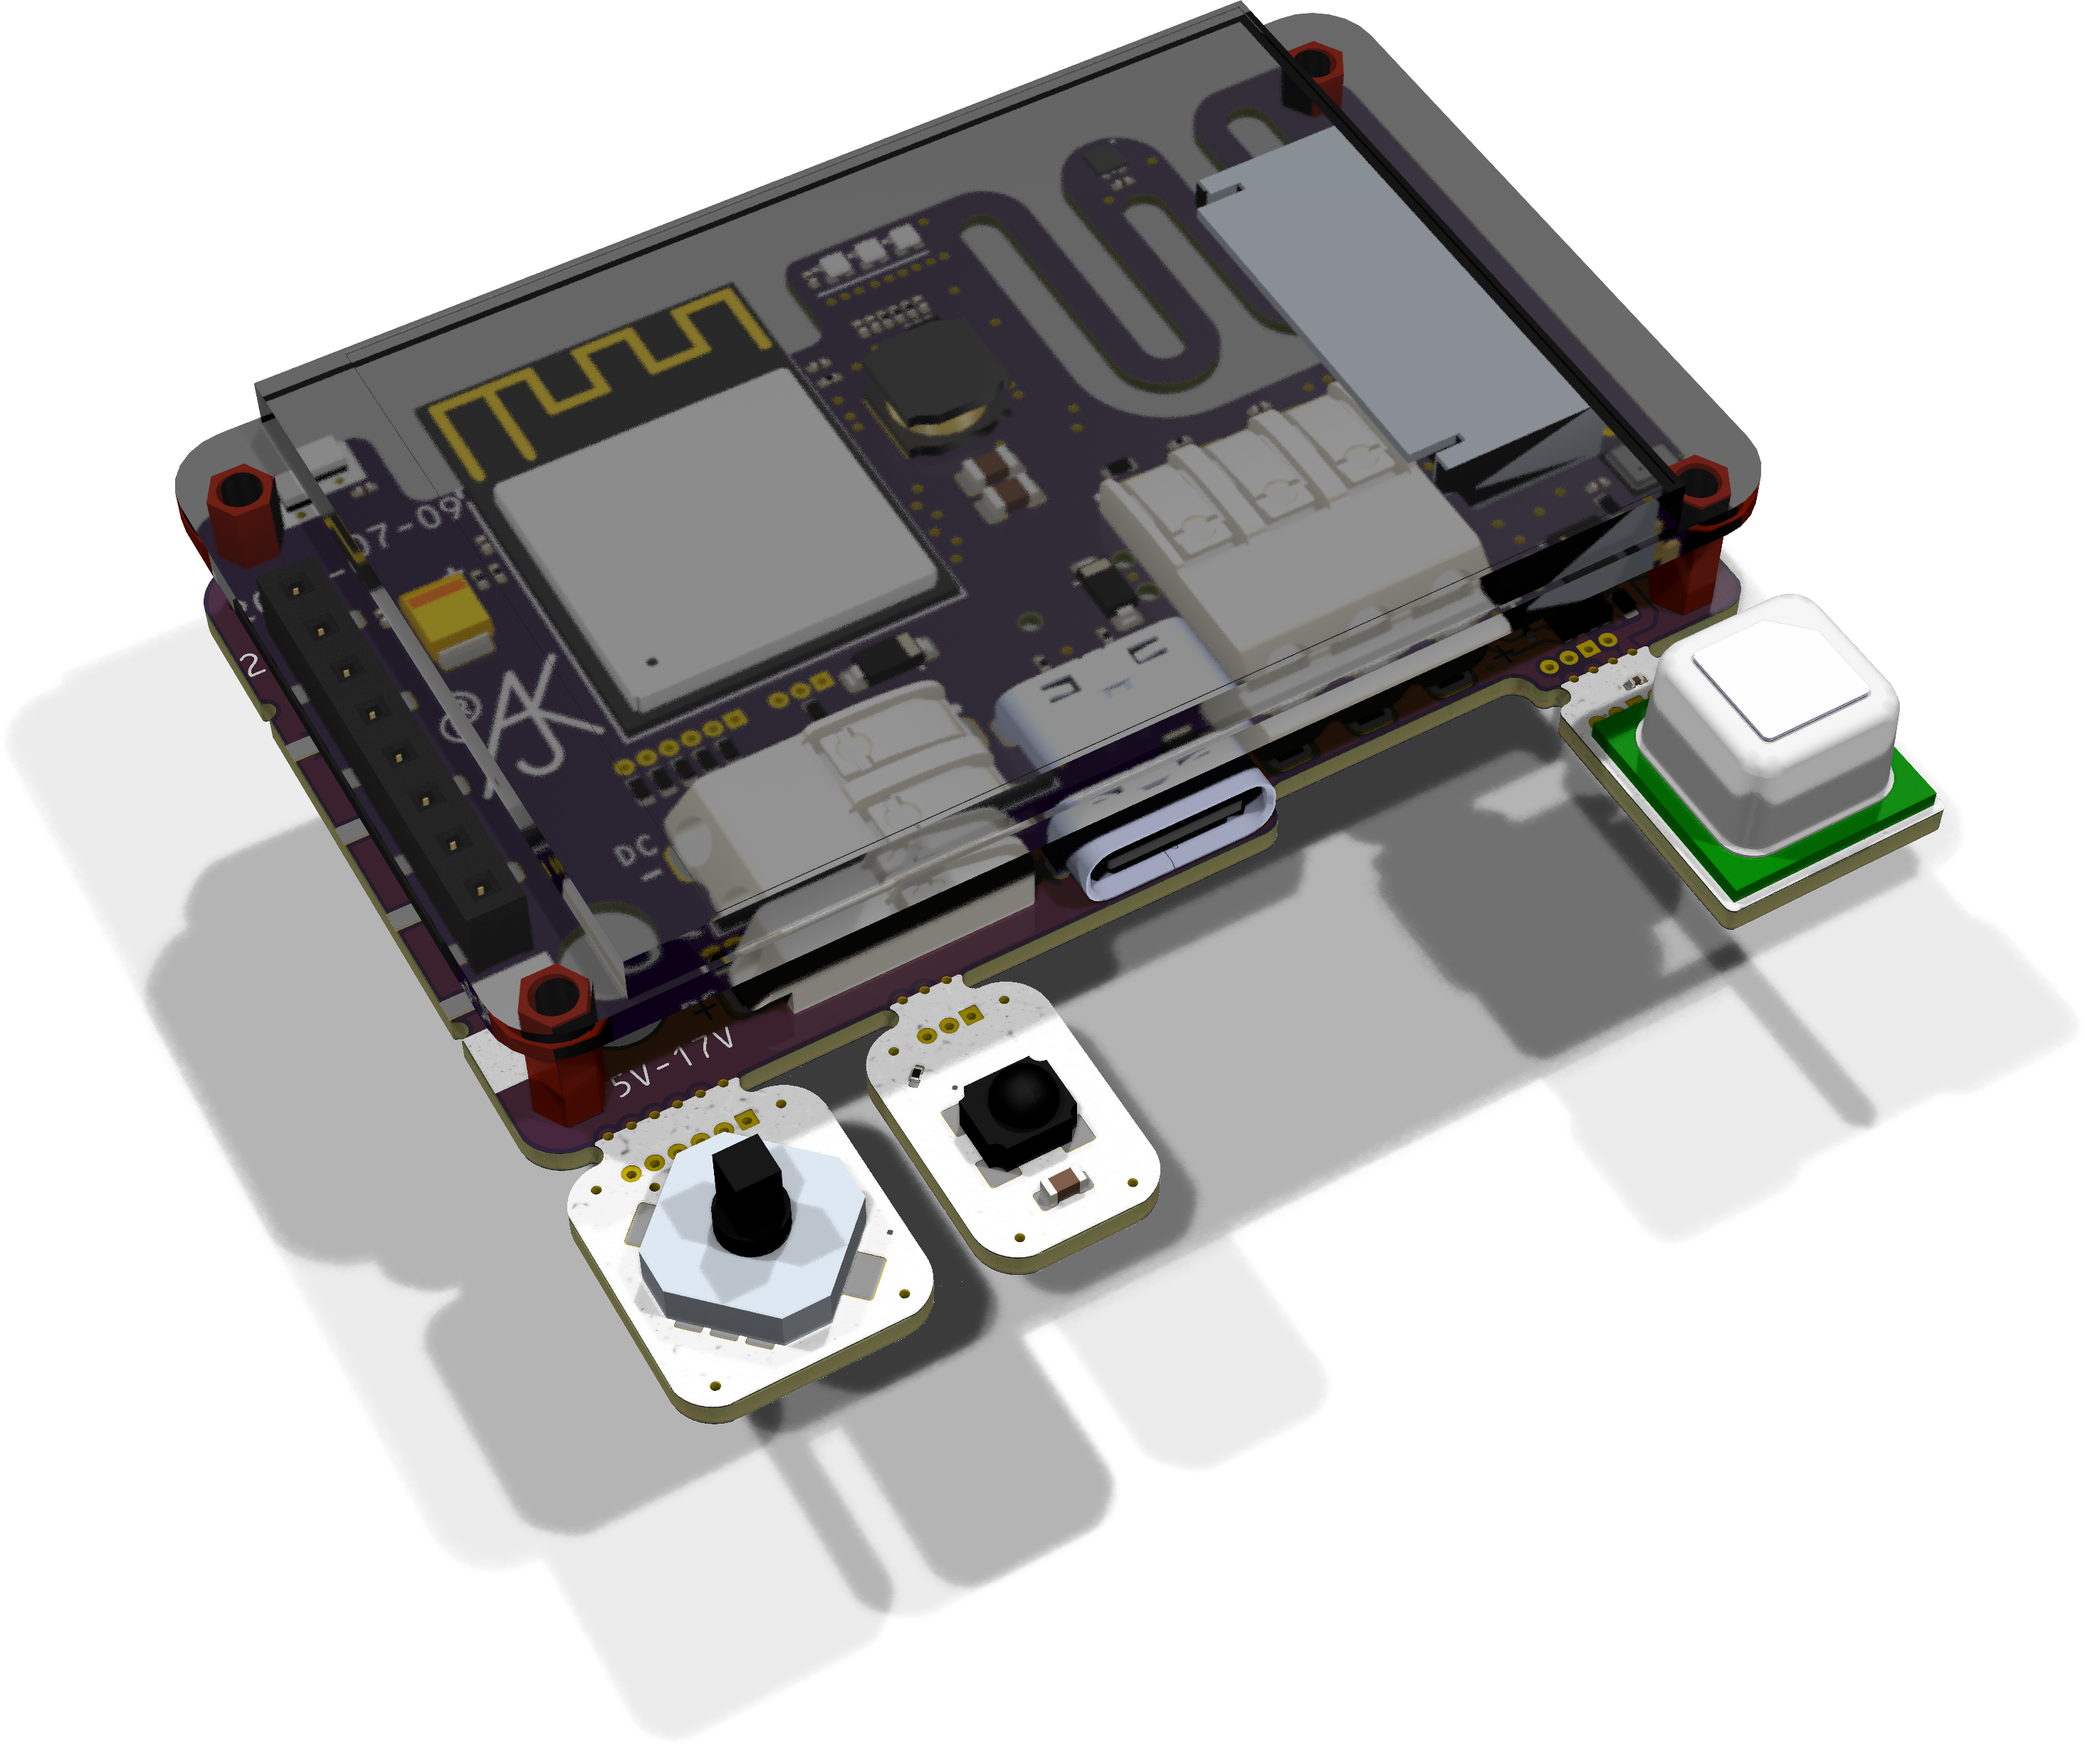
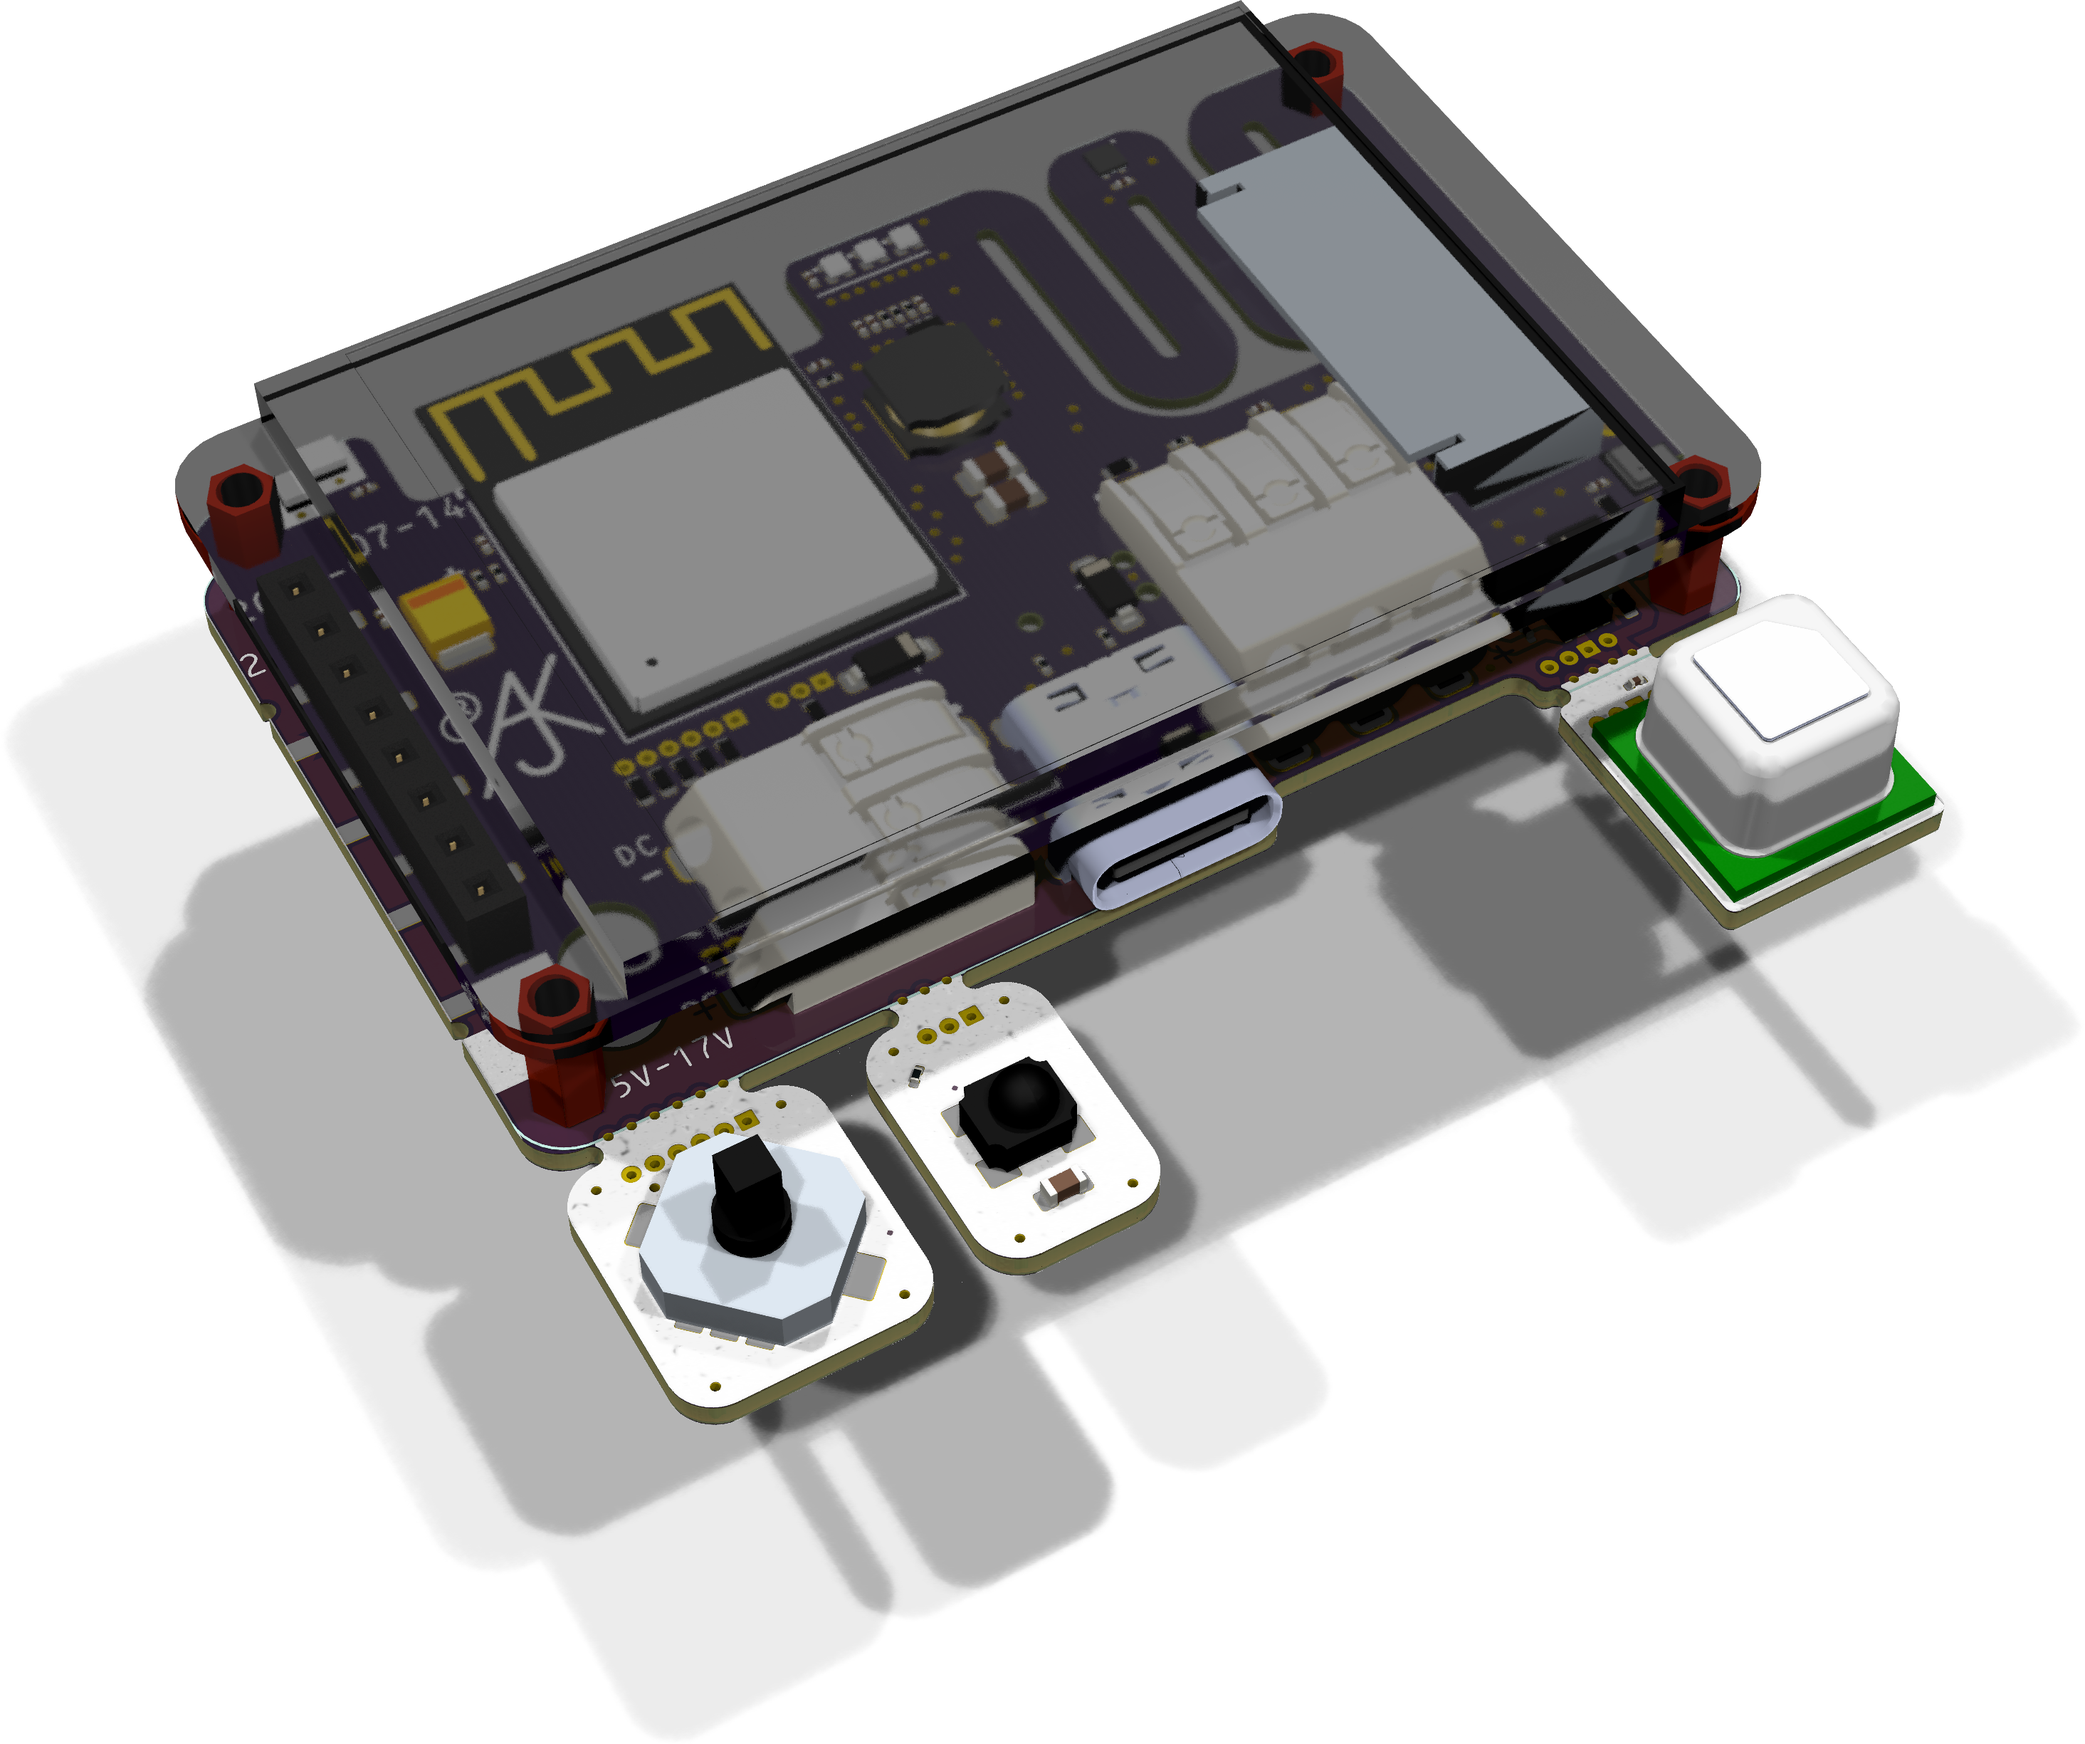
New tracks for temp

diff --git a/PCB/RemoteDev/README.md b/PCB/RemoteDev/README.md
@@ -11,4 +11,4 @@ This is an open source project, but bear in mind you cannot sell boards bearing 
 <img src='Remote.png' width=32%><img src='Remote-90.png' width=32%><img src='Remote-bottom.png' width=32%>
 <img src='Remote-panel.png' width=49%><img src='Remote-panel-bottom.png' width=49%>
 
-*Auto generated 2025-07-09T13:36:25*
+*Auto generated 2025-07-14T12:35:31*
